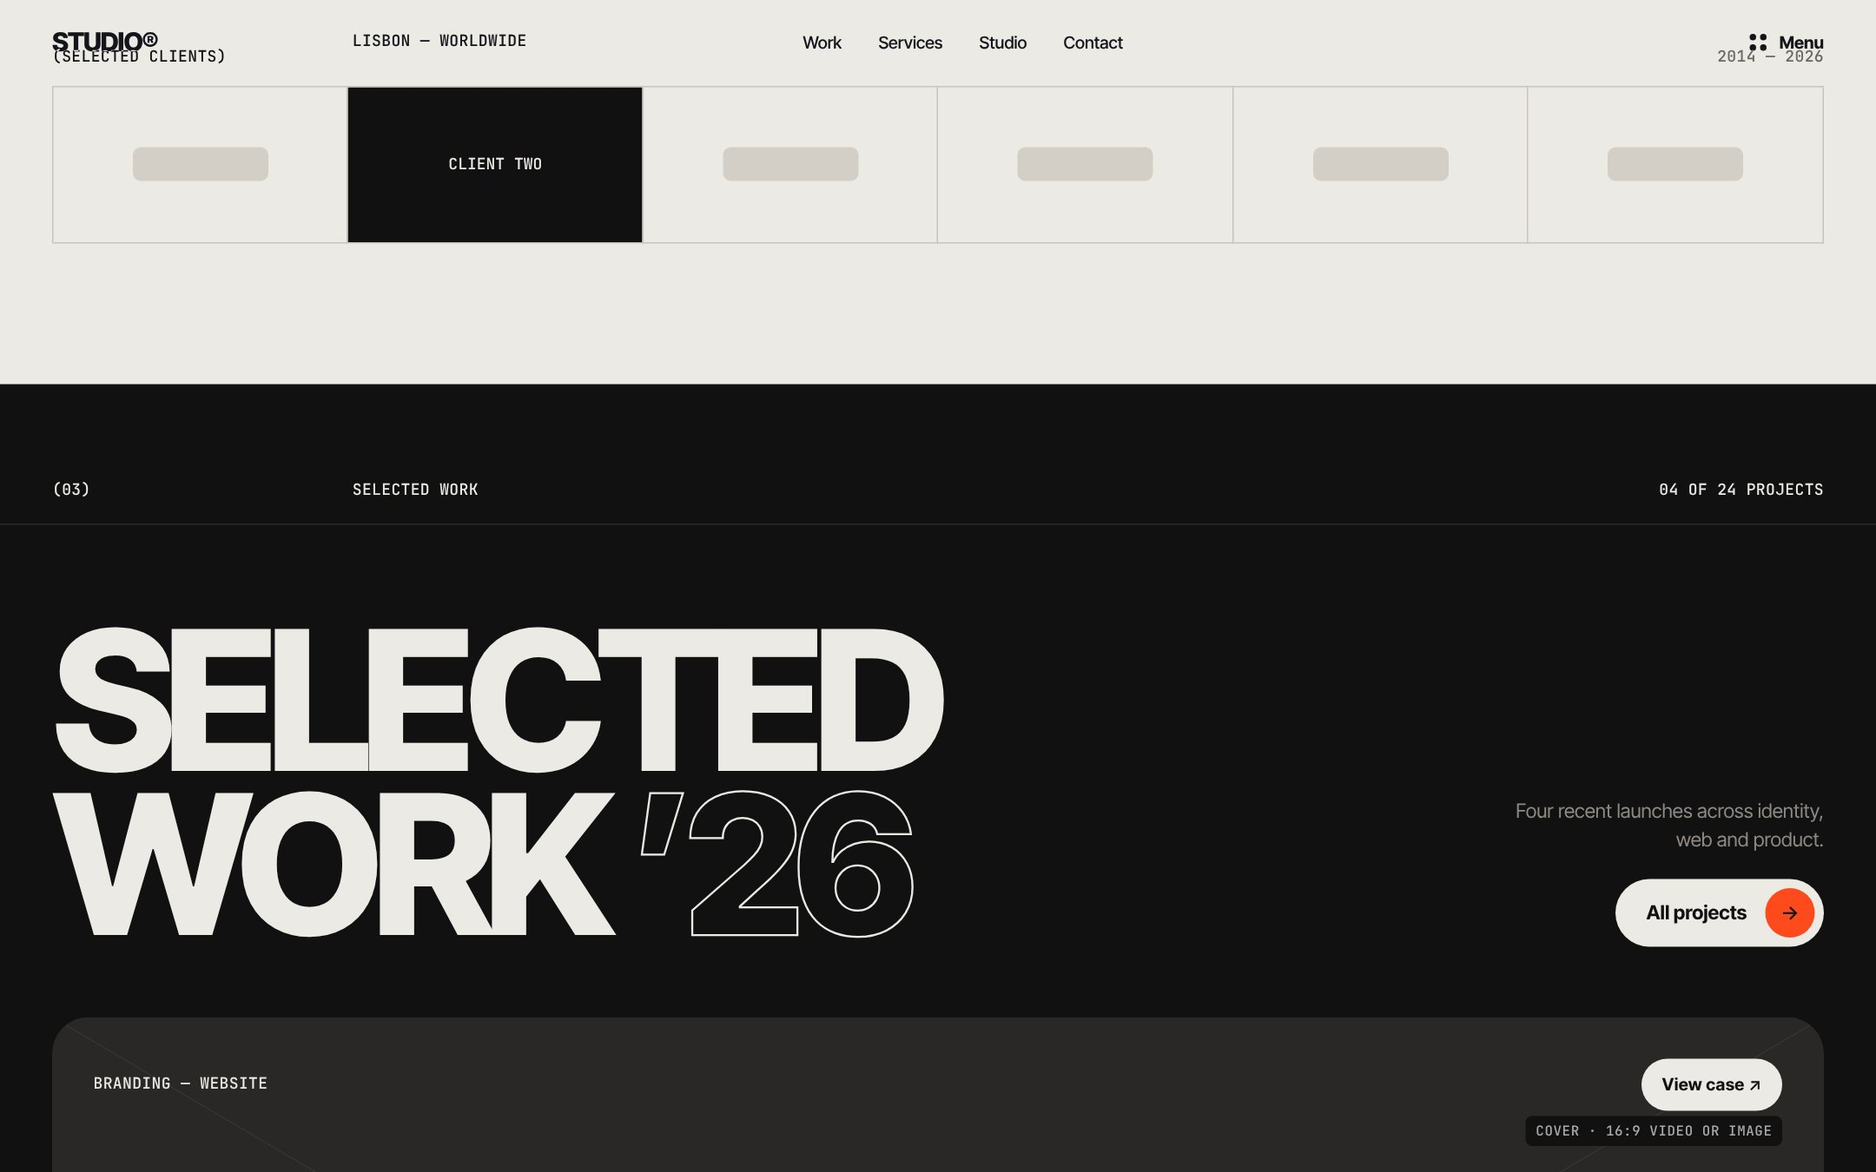
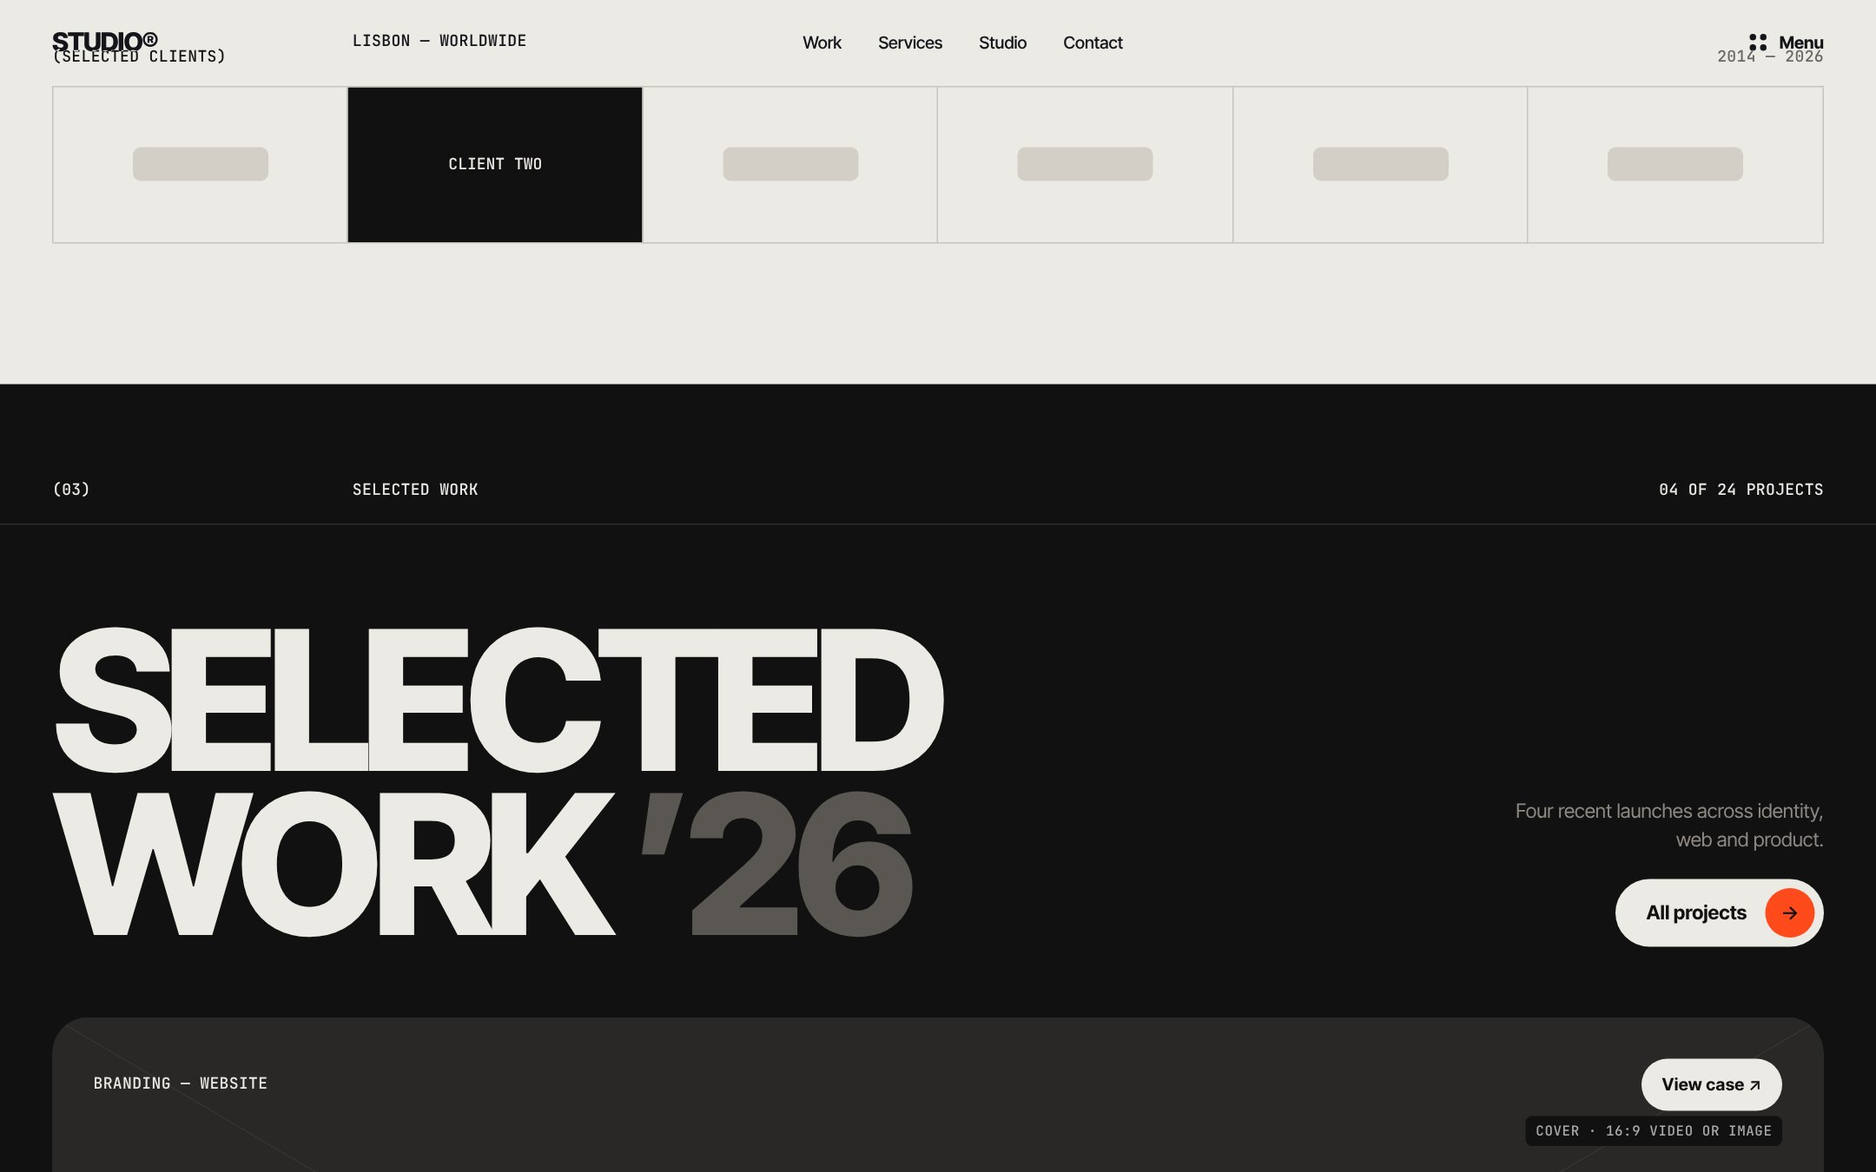
Remove all outline (stroke) type from wireframe v2
Use muted grey, solid ink or accent instead; reshoot desktop screenshots.

Claude-Session: https://claude.ai/code/session_01FKx3FFTr9V5p32C1Tp9Ekp

Changed region(s): [[0.3412, 0.6533, 0.4963, 0.8089]]

diff --git a/research/webflow-agency-template/wireframe/index.html b/research/webflow-agency-template/wireframe/index.html
@@ -37,8 +37,8 @@ button{font:inherit;color:inherit;background:none;border:0;cursor:pointer}
 .dark{background:var(--dark);color:var(--paper)}
 .dark .muted{color:var(--dark-muted)}
 .acc{color:var(--accent)}
-.outline{color:transparent;-webkit-text-stroke:1.5px var(--ink)}
-.dark .outline{-webkit-text-stroke-color:var(--paper)}
+.dim{color:#B5B0A7}
+.dark .dim{color:#5A5753}
 .skip{position:absolute;left:-999px;top:8px;background:var(--ink);color:var(--paper);padding:10px 14px;z-index:999}
 .skip:focus{left:8px}
 .d-xxl{font:800 clamp(72px,22.4vw,430px)/.8 var(--sans);letter-spacing:-.065em;text-transform:uppercase}
@@ -383,7 +383,7 @@ section,footer,header{position:relative}
   <div class="wrap shead mono"><span>(03)</span><span>Selected work</span><span>04 of 24 projects</span></div>
   <div class="note"><b>03 · Selected work (CMS)</b>Full-bleed cards stick and stack; the one underneath shrinks and darkens. Cursor turns into a “View” bubble.<br><span class="tag native">sticky + IX scrub</span><span class="tag native">CMS featured</span><span class="tag code">Cursor = GSAP</span></div>
   <div class="wrap grid work-top">
-    <h2 class="d-xl">Selected<br>work <span class="outline">’26</span></h2>
+    <h2 class="d-xl">Selected<br>work <span class="dim">’26</span></h2>
     <div class="side"><p class="muted" style="max-width:30ch">Four recent launches across identity, web and product.</p><a class="btn" href="#work">All projects <span class="ic" aria-hidden="true">→</span></a></div>
   </div>
   <div class="wrap stack">
@@ -436,11 +436,11 @@ section,footer,header{position:relative}
     <div class="wrap shead mono"><span>(05)</span><span>Process</span><span>6–12 weeks</span></div>
     <div class="note"><b>05 · Process</b>Section pins; four step cards slide in from the right; the step bar at the bottom fills as you go. Vertical stack below 992px.<br><span class="tag native">sticky + IX scrub (x)</span><span class="tag native">Breakpoint override</span></div>
     <div class="proc-track">
-      <div class="proc-intro"><h2 class="d-l">Four<br>steps to<br><span class="outline">launch</span></h2><p class="muted">Same rhythm on every project, so you always know what happens next and who is doing it.</p></div>
+      <div class="proc-intro"><h2 class="d-l">Four<br>steps to<br><span class="dim">launch</span></h2><p class="muted">Same rhythm on every project, so you always know what happens next and who is doing it.</p></div>
       <article class="step"><div class="step-top"><span class="n">01</span><svg class="star" viewBox="0 0 40 40" aria-hidden="true"><path d="M20 0C21 13 27 19 40 20 27 21 21 27 20 40 19 27 13 21 0 20 13 19 19 13 20 0Z"/></svg></div><div><span class="wk mono">Week 1</span><h3 class="t-h3">Clarify the brief</h3><p class="muted">A structured questionnaire and one workshop to agree on goals, audience and limits.</p></div></article>
-      <article class="step"><div class="step-top"><span class="n outline">02</span><svg class="star" viewBox="0 0 40 40" aria-hidden="true"><path d="M20 0C21 13 27 19 40 20 27 21 21 27 20 40 19 27 13 21 0 20 13 19 19 13 20 0Z"/></svg></div><div><span class="wk mono">Week 2–3</span><h3 class="t-h3">Concept &amp; direction</h3><p class="muted">Two or three routes, shown as short moodfilms, then one chosen together.</p></div></article>
+      <article class="step"><div class="step-top"><span class="n">02</span><svg class="star" viewBox="0 0 40 40" aria-hidden="true"><path d="M20 0C21 13 27 19 40 20 27 21 21 27 20 40 19 27 13 21 0 20 13 19 19 13 20 0Z"/></svg></div><div><span class="wk mono">Week 2–3</span><h3 class="t-h3">Concept &amp; direction</h3><p class="muted">Two or three routes, shown as short moodfilms, then one chosen together.</p></div></article>
       <article class="step"><div class="step-top"><span class="n">03</span><svg class="star" viewBox="0 0 40 40" aria-hidden="true"><path d="M20 0C21 13 27 19 40 20 27 21 21 27 20 40 19 27 13 21 0 20 13 19 19 13 20 0Z"/></svg></div><div><span class="wk mono">Week 4–8</span><h3 class="t-h3">Design &amp; system</h3><p class="muted">The route becomes a system: type, colour, motion, components and every key page.</p></div></article>
-      <article class="step"><div class="step-top"><span class="n outline">04</span><svg class="star" viewBox="0 0 40 40" aria-hidden="true"><path d="M20 0C21 13 27 19 40 20 27 21 21 27 20 40 19 27 13 21 0 20 13 19 19 13 20 0Z"/></svg></div><div><span class="wk mono">Week 9–12</span><h3 class="t-h3">Build &amp; launch</h3><p class="muted">Built in Webflow, tested on real devices, handed over with a training call.</p></div></article>
+      <article class="step"><div class="step-top"><span class="n">04</span><svg class="star" viewBox="0 0 40 40" aria-hidden="true"><path d="M20 0C21 13 27 19 40 20 27 21 21 27 20 40 19 27 13 21 0 20 13 19 19 13 20 0Z"/></svg></div><div><span class="wk mono">Week 9–12</span><h3 class="t-h3">Build &amp; launch</h3><p class="muted">Built in Webflow, tested on real devices, handed over with a training call.</p></div></article>
     </div>
     <div class="wrap proc-foot"><div class="proc-steps mono"><div><i></i>01 Brief</div><div><i></i>02 Concept</div><div><i></i>03 Design</div><div><i></i>04 Launch</div></div></div>
   </div></div>
@@ -493,7 +493,7 @@ section,footer,header{position:relative}
   <div class="wrap shead mono"><span>(08)</span><span>New projects</span><span>Reply within 24h</span></div>
   <div class="note"><b>08 · CTA + footer</b>Two giant lines rise in; the round button is magnetic; the footer is uncovered underneath like a curtain.<br><span class="tag native">IX SplitText</span><span class="tag code">Magnetic = GSAP</span><span class="tag native">CSS sticky footer</span></div>
   <div class="wrap grid cta-body">
-    <h2 class="d-xl cta-title"><span class="ln"><span>Got an idea?</span></span><span class="ln"><span><span class="acc">Let’s</span> <span class="outline">build it</span></span></span></h2>
+    <h2 class="d-xl cta-title"><span class="ln"><span>Got an idea?</span></span><span class="ln"><span><span class="acc">Let’s</span> build it</span></span></h2>
     <div class="cta-row">
       <p class="muted">Tell us about the brand, the deadline and the budget. We answer every brief within one working day.</p>
       <a class="cta-mail ulink" href="mailto:hello@studio.example">hello@studio.example</a>

diff --git a/research/webflow-agency-template/REPORT.md b/research/webflow-agency-template/REPORT.md
@@ -119,20 +119,20 @@ GSAP এখন **১০০% ফ্রি**, SplitText, ScrollTrigger, Flip, Scro
 | 3D CRT টিভিতে শোরিল (halftone শেডার) | ❌ | ছোট, গোল কোণার ফ্রেমে শোরিল; স্ক্রলে বড় হয়ে **ফুল-ব্লিড** হয় | sticky + IX scrub, নেটিভ BG ভিডিও |
 | Halftone/scanline লুক | ❌ শেডার | ভিডিও/ছবিতেই লুকটা **বেক করে** দেওয়া (After Effects/Photoshop), বা একটা PNG স্ক্যানলাইন ওভারলে | ইমেজ/ভিডিও অ্যাসেট |
 | স্টেজ-পর্দা (VAT সিমুলেশন) | ❌ | লোডার শেষে ৫টা কালো স্ট্রিপ উপরে সরে যায় ("কার্টেন ওয়াইপ") | IX পেজ লোড |
-| 3D ক্রোম অক্ষর ("ABOUT ME") | ❌ (Spline দিয়ে সম্ভব, কিন্তু ভারী) | ক্রোম স্ক্রিপ্ট লেখা **SVG/WebP** হিসেবে (রেফারেন্সও How I Work-এ এটাই করেছে), বা বিশাল আউটলাইন সানস লেখা | ইমেজ / টাইপোগ্রাফি |
+| 3D ক্রোম অক্ষর ("ABOUT ME") | ❌ (Spline দিয়ে সম্ভব, কিন্তু ভারী) | ক্রোম স্ক্রিপ্ট লেখা **SVG/WebP** হিসেবে (রেফারেন্সও How I Work-এ এটাই করেছে), বা বিশাল সানস লেখা | ইমেজ / টাইপোগ্রাফি |
 | 3D রিমোট মেনু | ❌ | ফুল-স্ক্রিন মেনু: বড় লিংক, হোভারে প্রিভিউ ছবি, ক্লিপ-পাথ দিয়ে খোলে | IX ক্লিক |
 | ঘুরন্ত সানবার্স্ট রে | ✅ | SVG + ধীরে ঘোরা (CSS animation বা IX loop) | নেটিভ |
 | চ্যানেল বদলানো (glitch ট্রানজিশন) | ❌ | প্রজেক্ট কার্ড sticky স্ট্যাক; নিচের কার্ড ছোট আর গাঢ় হয়ে যায় | sticky + IX scrub |
 | স্পার্কল/তারার হোভার | ✅ | স্টার SVG স্ক্রলে ঘোরে, হোভারে স্কেল হয় | IX |
 | পোস্টার অ্যাওয়ার্ড কার্ড | ✅ | ৫টা পোস্টার প্রথমে এক গাদায় থাকে, স্ক্রলে পাখার মতো ছড়িয়ে যায় | sticky + IX scrub |
-| ক্রোম স্ক্রিপ্ট + গ্রোটেস্ক কনট্রাস্ট | ✅ | সেরিফ ছাড়া: Inter Tight (300–800) + JetBrains Mono; কনট্রাস্ট আসে ওজন, আউটলাইন লেখা আর অ্যাকসেন্ট রং থেকে (দুটো ফন্টই Google Fonts) | নেটিভ ফন্ট |
+| ক্রোম স্ক্রিপ্ট + গ্রোটেস্ক কনট্রাস্ট | ✅ | সেরিফ ছাড়া: Inter Tight (300–800) + JetBrains Mono; কনট্রাস্ট আসে ওজন, ধূসর রং আর অ্যাকসেন্ট রং থেকে (দুটো ফন্টই Google Fonts) | নেটিভ ফন্ট |
 | সাউন্ড | — | বাদ | — |
 
 ---
 
 ## ৮. ওয়্যারফ্রেম v2: সেকশন প্ল্যান (৮ সেকশন)
 
-**v2-এ যা বদলেছে:** পুরো পেজ এখন **৮টা সেকশনে** নামিয়ে আনা হয়েছে। **সেরিফ ফন্ট বাদ**: টাইপোগ্রাফি এখন শুধু **Inter Tight** (300–800), আর লেবেল/নম্বরের জন্য **JetBrains Mono**। কনট্রাস্ট আসে ওজন, আউটলাইন (stroke) লেখা আর অ্যাকসেন্ট রং থেকে। প্রতিটা সেকশনের মাথায় একই ধরনের লেবেল-সারি আছে: `(০২) — নাম — তথ্য`, নিচে একটা হেয়ারলাইন। এতে পুরো পেজ একটা এডিটোরিয়াল সিস্টেমের মতো পড়া যায়।
+**v2-এ যা বদলেছে:** পুরো পেজ এখন **৮টা সেকশনে** নামিয়ে আনা হয়েছে। **সেরিফ ফন্ট বাদ**: টাইপোগ্রাফি এখন শুধু **Inter Tight** (300–800), আর লেবেল/নম্বরের জন্য **JetBrains Mono**। কনট্রাস্ট আসে ওজন, ধূসর-বনাম-কালো রং আর অ্যাকসেন্ট রং থেকে। কোথাও আউটলাইন (stroke) লেখা নেই। প্রতিটা সেকশনের মাথায় একই ধরনের লেবেল-সারি আছে: `(০২) — নাম — তথ্য`, নিচে একটা হেয়ারলাইন। এতে পুরো পেজ একটা এডিটোরিয়াল সিস্টেমের মতো পড়া যায়।
 
 বাদ পড়েছে: আলাদা Project Index, Playground, Logo marquee। ক্লায়েন্ট লোগো এখন Studio সেকশনের ভেতরে একটা গ্রিডে।
 
@@ -141,12 +141,12 @@ GSAP এখন **১০০% ফ্রি**, SplitText, ScrollTrigger, Flip, Scro
 | — | Preloader, Nav, Menu | কাউন্টার + প্রোগ্রেস বার; ১২-কলাম nav (লোগো, লোকেশন, লিংক, Menu); ফুল-স্ক্রিন মেনুতে নম্বরসহ বড় লিংক + প্রিভিউ | ৬টা স্ট্রিপ উপরে সরে যায়; লিংকের টেক্সট রোল; মেনু clip-path দিয়ে খোলে | IX পেজ লোড / হোভার / ক্লিক |
 | 01 | Hero + Showreel | "CREATIVE" আর "STUDIO®" পুরো চওড়া জুড়ে; মাঝে ছোট রিল, বাম দিকে এক লাইনের পরিচয়, ডানে "Booking" স্ট্যাটাস; নিচে ৪-কলাম মেটা সারি | শব্দগুলো উঠে আসে; স্ক্রলে রিল ২২% থেকে **ফুল-ব্লিড** হয় আর শব্দ দুটো উপরে-নিচে সরে যায় | sticky + IX scrub, SplitText, BG video |
 | 02 | Studio | মোনো লেবেল + বড় স্টেটমেন্ট (ভেতরে ছবির চিপ), ৪টা স্ট্যাট বর্ডারে ভাগ করা, CTA, **৬ ঘরের ক্লায়েন্ট-লোগো গ্রিড** | শব্দ স্ক্রলে উজ্জ্বল হয়; নম্বর গোনে; লোগো ঘরে হোভার করলে কালো প্যানেল উঠে নাম দেখায় | IX SplitText + scrub; GSAP counter; CSS hover |
-| 03 | Selected Work (CMS) | ডার্ক; বিশাল "SELECTED WORK ’26" (’26 আউটলাইন); **ফুল-ব্লিড কার্ড**, উপরে ক্যাটাগরি + "View case", নিচে ইনডেক্স / বিশাল টাইটেল / ট্যাগ / সাল | কার্ড sticky স্ট্যাক হয়, নিচেরটা ছোট আর গাঢ় হয়; "View" কার্সর; হোভারে কভার জুম | sticky + scrub; GSAP কার্সর |
+| 03 | Selected Work (CMS) | ডার্ক; বিশাল "SELECTED WORK ’26" (’26 ধূসর); **ফুল-ব্লিড কার্ড**, উপরে ক্যাটাগরি + "View case", নিচে ইনডেক্স / বিশাল টাইটেল / ট্যাগ / সাল | কার্ড sticky স্ট্যাক হয়, নিচেরটা ছোট আর গাঢ় হয়; "View" কার্সর; হোভারে কভার জুম | sticky + scrub; GSAP কার্সর |
 | 04 | Services | বামে **sticky ছবির ফ্রেম + বড় কাউন্টার (01/03)**; ডানে তিনটা বিশাল শব্দ, বর্ণনা আর ট্যাগ | স্ক্রলে বা হোভারে যে সার্ভিস সক্রিয়, তার শব্দ কালো হয়ে ডানে সরে, বাকিগুলো ধূসর; বামের ছবি ক্রস-ফেড হয় | sticky + IX scroll into view / hover |
-| 05 | Process | পিন করা: বামে "FOUR STEPS TO LAUNCH" (শেষ শব্দ আউটলাইন), ডানে ৪টা কার্ড (বিশাল সংখ্যা: ভরাট আর আউটলাইন পালাক্রমে, সপ্তাহের ট্যাগ); নিচে ৪ ধাপের প্রোগ্রেস বার | কার্ডগুলো পাশের দিকে সরে, তারা ঘোরে, বার একটা একটা করে ভরে | sticky + IX scrub (x) |
+| 05 | Process | পিন করা: বামে "FOUR STEPS TO LAUNCH" (শেষ শব্দ ধূসর), ডানে ৪টা কার্ড (বিশাল ভরাট সংখ্যা, সপ্তাহের ট্যাগ); নিচে ৪ ধাপের প্রোগ্রেস বার | কার্ডগুলো পাশের দিকে সরে, তারা ঘোরে, বার একটা একটা করে ভরে | sticky + IX scrub (x) |
 | 06 | Recognition (CMS) | ডার্ক; বামে অ্যাওয়ার্ড **টেবিল** (প্ল্যাটফর্ম / ক্যাটাগরি / সাল / ×n), ডানে পোস্টারের গাদা | স্ক্রলে পোস্টার পাখার মতো ছড়ায়; টেবিলের সারিতে হোভার করলে **সেই পোস্টারটা উঠে আসে** | sticky + scrub; GSAP (row → poster) |
 | 07 | Client voices (CMS) | বামে 4:5 পোর্ট্রেট; ডানে বড় সানস কোট, নিচে লোগো + নাম + prev/next, ৩টা প্রোগ্রেস বার; লেবেল-সারিতে "01 / 03" | কোট লাইন-বাই-লাইন মাস্ক দিয়ে বদলায়, বার ভরে | IX click + SplitText lines |
-| 08 | CTA + Footer | "GOT AN IDEA?" / "LET'S BUILD IT" (ডানে সাজানো; Let's অ্যাকসেন্ট রঙে, build it আউটলাইন); নিচে বর্ণনা, বড় ইমেইল, গোল বাটন; ফুটারে নিউজলেটার, ৪ কলাম, বিশাল ওয়ার্ডমার্ক | লাইন রিভিল; ম্যাগনেটিক বাটন; ইমেইলের আন্ডারলাইন আঁকা হয়; ফুটার পর্দার মতো বেরিয়ে আসে | IX SplitText; GSAP magnetic; CSS sticky |
+| 08 | CTA + Footer | "GOT AN IDEA?" / "LET'S BUILD IT" (ডানে সাজানো; Let's অ্যাকসেন্ট রঙে); নিচে বর্ণনা, বড় ইমেইল, গোল বাটন; ফুটারে নিউজলেটার, ৪ কলাম, বিশাল ওয়ার্ডমার্ক | লাইন রিভিল; ম্যাগনেটিক বাটন; ইমেইলের আন্ডারলাইন আঁকা হয়; ফুটার পর্দার মতো বেরিয়ে আসে | IX SplitText; GSAP magnetic; CSS sticky |
 
 **মোবাইল নিয়ম:** হরাইজন্টাল পিন বন্ধ করে উপর-নিচের স্ট্যাক; অ্যাওয়ার্ড ২-কলাম গ্রিডে; কার্সর আর ইমেজ-ফলো টাচ ডিভাইসে বন্ধ; বাটন আর লিংক অন্তত ৪৪px উঁচু।
 **Reduced motion:** সব অ্যানিমেশন বন্ধ থাকে, কিন্তু কোনো কনটেন্ট লুকানো থাকে না (`gsap.matchMedia`)।
